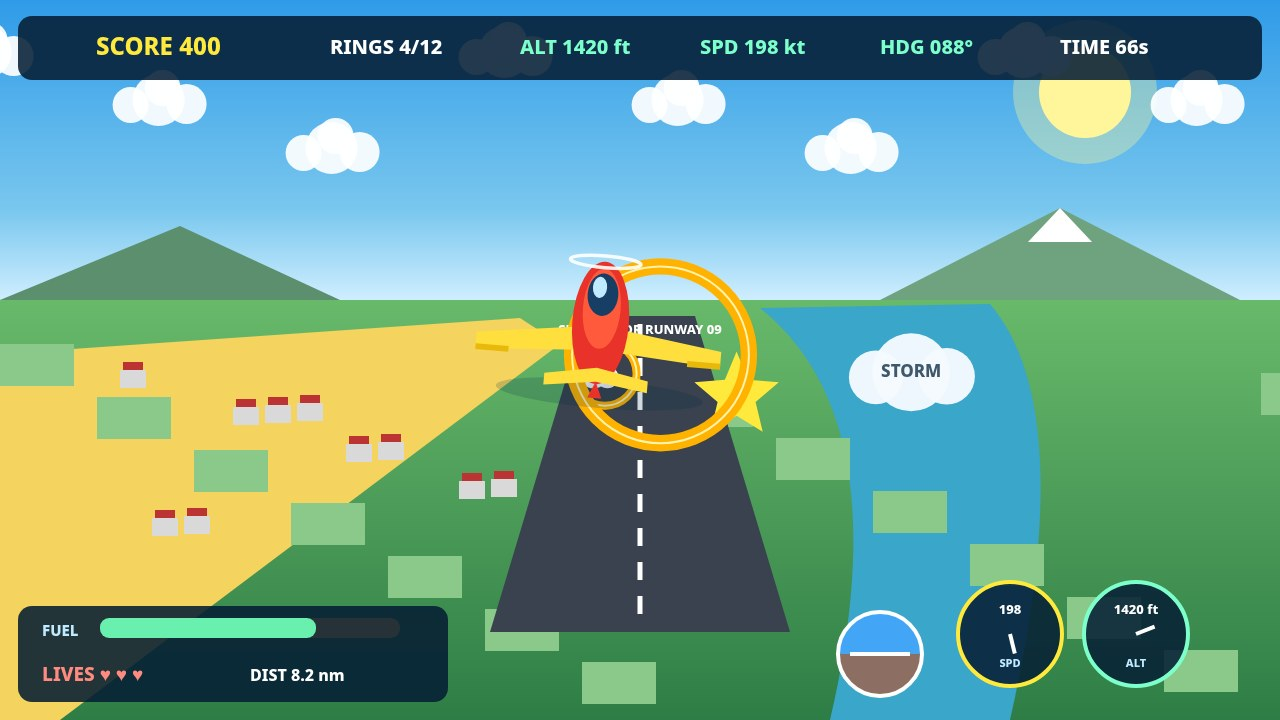
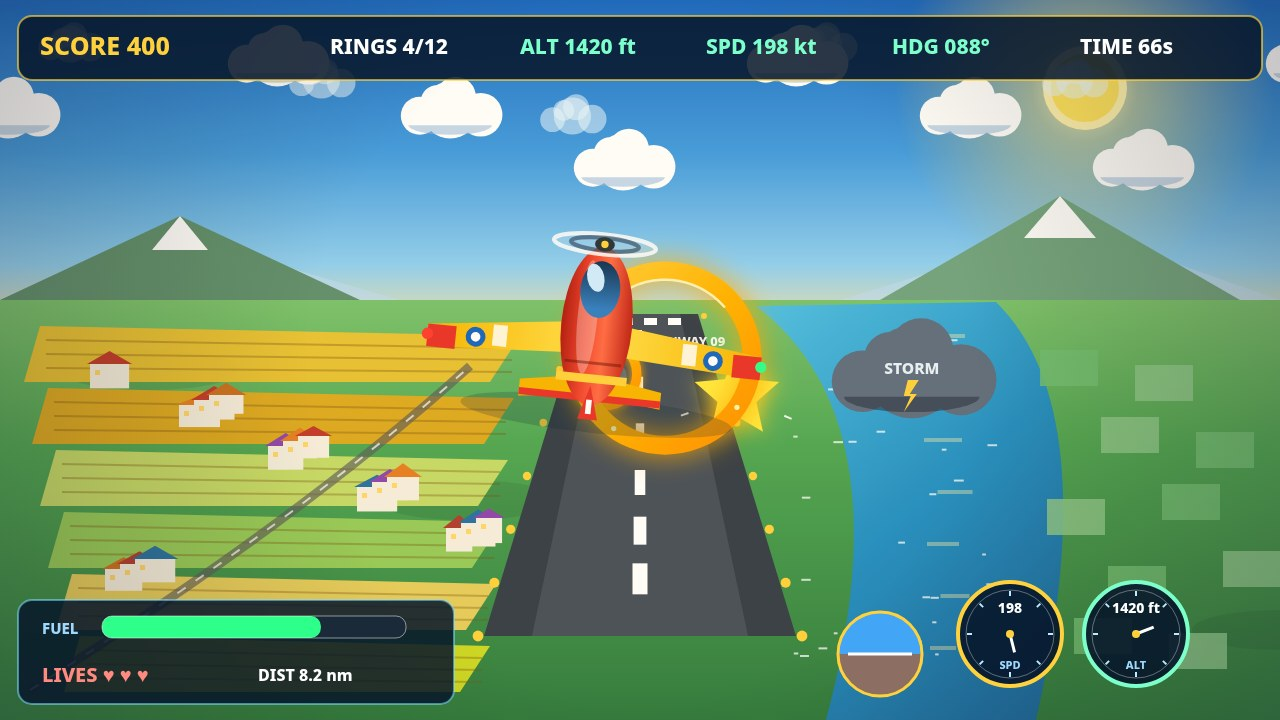
Visual overhaul: golden sky, detailed plane and terrain, polished HUD/title/end, restaged screenshots

diff --git a/game/src/render.js b/game/src/render.js
@@ -1,60 +1,119 @@
-
 import {FIELD,FONT} from './config.js';
 export const SCREEN_TITLE=0, SCREEN_PLAY=1, SCREEN_PAUSED=2, SCREEN_OVER=3;
+// Deterministic hash-noise so sparkles / rooftops / field tones are stable per frame.
+function hash(n){ const v=Math.sin(n*127.1+311.7)*43758.5453; return v-Math.floor(v); }
 export function createRenderer(canvas){
  const ctx=canvas.getContext('2d'); canvas.width=FIELD.width; canvas.height=FIELD.height;
  function rr(x,y,w,h,r){ ctx.beginPath(); ctx.roundRect(x,y,w,h,r); }
  function text(t,x,y,size,color,align='center',bold=800){ ctx.fillStyle=color; ctx.font=bold+' '+size+'px '+FONT; ctx.textAlign=align; ctx.textBaseline='middle'; ctx.fillText(t,x,y); }
- function plane(x,y,bank,scale=1){ ctx.save(); ctx.translate(x,y); ctx.rotate(bank*0.30); ctx.scale(scale,scale);
-   ctx.fillStyle='rgba(0,40,70,0.18)'; ctx.beginPath(); ctx.ellipse(4,54,88,12,0,0,7); ctx.fill();
-   // main wings (horizontal, chase view from behind)
-   ctx.fillStyle='#ffdf3d'; ctx.beginPath(); ctx.moveTo(-104,10); ctx.lineTo(-14,-2); ctx.lineTo(14,-2); ctx.lineTo(104,10); ctx.lineTo(104,24); ctx.lineTo(14,18); ctx.lineTo(-14,18); ctx.lineTo(-104,24); ctx.closePath(); ctx.fill();
-   ctx.fillStyle='#e8b90a'; ctx.fillRect(-104,20,28,5); ctx.fillRect(76,20,28,5);
-   // fuselage vertical
-   ctx.fillStyle='#e8322a'; ctx.beginPath(); ctx.ellipse(0,-6,24,52,0,0,7); ctx.fill();
-   ctx.fillStyle='#ff5a3c'; ctx.beginPath(); ctx.ellipse(0,-18,16,34,0,0,7); ctx.fill();
-   // cockpit canopy near nose (top)
-   ctx.fillStyle='#173f66'; ctx.beginPath(); ctx.ellipse(0,-30,13,18,0,0,7); ctx.fill(); ctx.fillStyle='#bfeaff'; ctx.beginPath(); ctx.ellipse(-3,-36,6,9,0,0,7); ctx.fill();
-   // tailplane at bottom
-   ctx.fillStyle='#ffdf3d'; ctx.beginPath(); ctx.moveTo(-44,40); ctx.lineTo(0,32); ctx.lineTo(44,40); ctx.lineTo(44,50); ctx.lineTo(0,44); ctx.lineTo(-44,50); ctx.closePath(); ctx.fill();
-   ctx.fillStyle='#e8322a'; ctx.beginPath(); ctx.moveTo(0,44); ctx.lineTo(-6,58); ctx.lineTo(6,58); ctx.closePath(); ctx.fill();
-   // propeller blur at nose
-   ctx.strokeStyle='rgba(255,255,255,0.9)'; ctx.lineWidth=3; ctx.beginPath(); ctx.ellipse(0,-58,30,5,0,0,7); ctx.stroke();
+ function panel(x,y,w,h,accent){ ctx.fillStyle='rgba(7,22,42,0.86)'; rr(x,y,w,h,14); ctx.fill(); ctx.strokeStyle=accent||'rgba(125,223,255,0.55)'; ctx.lineWidth=2; rr(x,y,w,h,14); ctx.stroke(); }
+ function plane(x,y,bank,scale=1){ ctx.save(); ctx.translate(x,y); ctx.rotate(bank*0.34); ctx.scale(scale,scale);
+   // ground shadow handled by caller scene; soft self shadow under wings
+   ctx.fillStyle='rgba(0,30,60,0.20)'; ctx.beginPath(); ctx.ellipse(6,58,96,13,0,0,7); ctx.fill();
+   // main wing: wide, slight dihedral shading, red tips, white stripes + roundels
+   const wg=ctx.createLinearGradient(-118,0,118,0); wg.addColorStop(0,'#f7b500'); wg.addColorStop(0.5,'#ffe14d'); wg.addColorStop(1,'#f7b500');
+   ctx.fillStyle=wg; ctx.beginPath(); ctx.moveTo(-118,6); ctx.lineTo(-16,-6); ctx.lineTo(16,-6); ctx.lineTo(118,6); ctx.lineTo(118,22); ctx.lineTo(16,16); ctx.lineTo(-16,16); ctx.lineTo(-118,22); ctx.closePath(); ctx.fill();
+   ctx.fillStyle='#e8322a'; ctx.fillRect(-118,6,20,16); ctx.fillRect(98,6,20,16);
+   ctx.fillStyle='rgba(255,255,255,0.85)'; ctx.fillRect(-72,2,10,15); ctx.fillRect(62,2,10,15);
+   for(const sx of [-1,1]){ ctx.fillStyle='#1565c0'; ctx.beginPath(); ctx.arc(sx*84,12,7,0,7); ctx.fill(); ctx.fillStyle='#fff'; ctx.beginPath(); ctx.arc(sx*84,12,3.4,0,7); ctx.fill(); }
+   // navigation lights
+   ctx.fillStyle='#ff3b30'; ctx.beginPath(); ctx.arc(-118,13,4,0,7); ctx.fill(); ctx.fillStyle='#2eff8a'; ctx.beginPath(); ctx.arc(118,13,4,0,7); ctx.fill();
+   // tailplane
+   ctx.fillStyle='#f7b500'; ctx.beginPath(); ctx.moveTo(-50,38); ctx.lineTo(0,30); ctx.lineTo(50,38); ctx.lineTo(50,50); ctx.lineTo(0,44); ctx.lineTo(-50,50); ctx.closePath(); ctx.fill();
+   ctx.fillStyle='#e8322a'; ctx.fillRect(-50,44,100,5);
+   // fuselage: rich red gradient, panel line, highlight spine
+   const fg=ctx.createLinearGradient(-24,0,24,0); fg.addColorStop(0,'#b31b12'); fg.addColorStop(0.35,'#f0442e'); fg.addColorStop(0.62,'#ff6a45'); fg.addColorStop(1,'#c22418');
+   ctx.fillStyle=fg; ctx.beginPath(); ctx.ellipse(0,-4,25,56,0,0,7); ctx.fill();
+   ctx.fillStyle='rgba(255,255,255,0.30)'; ctx.beginPath(); ctx.ellipse(-7,-10,7,40,0,0,7); ctx.fill();
+   ctx.strokeStyle='rgba(90,10,5,0.45)'; ctx.lineWidth=2; ctx.beginPath(); ctx.moveTo(-20,22); ctx.lineTo(20,22); ctx.stroke();
+   ctx.fillStyle='#ffd23d'; ctx.fillRect(-25,30,50,6);
+   // vertical fin at tail (bottom in chase view)
+   ctx.fillStyle='#e8322a'; ctx.beginPath(); ctx.moveTo(0,38); ctx.lineTo(-7,62); ctx.lineTo(7,62); ctx.closePath(); ctx.fill(); ctx.fillStyle='#fff'; ctx.fillRect(-2,48,4,10);
+   // cockpit canopy with glass highlight
+   const cg=ctx.createLinearGradient(0,-52,0,-16); cg.addColorStop(0,'#0d2c4d'); cg.addColorStop(1,'#2f7fc4');
+   ctx.fillStyle=cg; ctx.beginPath(); ctx.ellipse(0,-30,14,20,0,0,7); ctx.fill(); ctx.fillStyle='#cfeeff'; ctx.beginPath(); ctx.ellipse(-4,-38,6,10,-0.3,0,7); ctx.fill();
+   // propeller: blurred disc + arcs + spinner at nose (top)
+   ctx.fillStyle='rgba(230,245,255,0.20)'; ctx.beginPath(); ctx.ellipse(0,-62,36,7,0,0,7); ctx.fill();
+   ctx.strokeStyle='rgba(255,255,255,0.85)'; ctx.lineWidth=3; ctx.beginPath(); ctx.ellipse(0,-62,36,7,0,0,7); ctx.stroke();
+   ctx.strokeStyle='rgba(20,40,70,0.55)'; ctx.beginPath(); ctx.ellipse(0,-62,24,4.6,0,0,7); ctx.stroke();
+   ctx.fillStyle='#263238'; ctx.beginPath(); ctx.ellipse(0,-62,7,5,0,0,7); ctx.fill(); ctx.fillStyle='#ffd23d'; ctx.beginPath(); ctx.arc(0,-62,2.6,0,7); ctx.fill();
    ctx.restore(); }
- function dial(x,y,label,val,unit,color,display){ ctx.fillStyle='rgba(7,32,54,0.88)'; ctx.beginPath(); ctx.arc(x,y,52,0,7); ctx.fill(); ctx.strokeStyle=color; ctx.lineWidth=4; ctx.stroke(); ctx.strokeStyle='#fff'; ctx.beginPath(); ctx.moveTo(x,y); const a=-2.2+ (val%100)/100*3.6; ctx.lineTo(x+Math.cos(a)*20,y+Math.sin(a)*20); ctx.stroke(); text(label,x,y+30,11,'#bfeaff'); text(display??(Math.round(val)+unit),x,y-24,13,'#fff'); }
+ function dial(x,y,label,val,unit,color,display){ ctx.fillStyle='rgba(7,22,42,0.90)'; ctx.beginPath(); ctx.arc(x,y,52,0,7); ctx.fill(); ctx.strokeStyle=color; ctx.lineWidth=4; ctx.stroke(); ctx.strokeStyle='rgba(255,255,255,0.35)'; ctx.lineWidth=1; ctx.beginPath(); ctx.arc(x,y,44,0,7); ctx.stroke();
+   for(let k=0;k<8;k++){ const a=k/8*Math.PI*2; ctx.strokeStyle='#bfeaff'; ctx.lineWidth=2; ctx.beginPath(); ctx.moveTo(x+Math.cos(a)*38,y+Math.sin(a)*38); ctx.lineTo(x+Math.cos(a)*43,y+Math.sin(a)*43); ctx.stroke(); }
+   ctx.strokeStyle='#fff'; ctx.lineWidth=3; ctx.beginPath(); ctx.moveTo(x,y); const a=-2.2+ (val%100)/100*3.6; ctx.lineTo(x+Math.cos(a)*19,y+Math.sin(a)*19); ctx.stroke(); ctx.fillStyle='#ffd23d'; ctx.beginPath(); ctx.arc(x,y,4,0,7); ctx.fill();
+   text(label,x,y+32,11,'#9fd8ff'); text(display??(Math.round(val)+unit),x,y-25,14,'#fff'); }
+ function cloudShape(cx,cy,s,fill,shadow){ ctx.fillStyle=fill; for(const [dx,dy,r] of [[0,0,30],[32,5,23],[-32,6,20],[6,-14,21],[-14,-9,17]]) { ctx.beginPath(); ctx.arc(cx+dx*s,cy+dy*s,r*s,0,7); ctx.fill(); } if(shadow){ ctx.fillStyle=shadow; ctx.beginPath(); ctx.ellipse(cx,cy+16*s,44*s,10*s,0,0,Math.PI); ctx.fill(); } }
  function draw(s,screen,best){
   const W=1280,H=720,hor=300+s.pitch*22;
-  let g=ctx.createLinearGradient(0,0,0,hor); g.addColorStop(0,'#2f9be8'); g.addColorStop(0.7,'#79c7ee'); g.addColorStop(1,'#cfeeff'); ctx.fillStyle=g; ctx.fillRect(0,0,W,hor+2);
-  ctx.fillStyle='#fff59b'; ctx.beginPath(); ctx.arc(1085,92,46,0,7); ctx.fill(); ctx.fillStyle='rgba(255,245,155,0.35)'; ctx.beginPath(); ctx.arc(1085,92,72,0,7); ctx.fill();
-  for(let i=0;i<9;i++){ const cx=((i*173 + s.dist*8)%1450)-80, cy=52+(i%3)*48; ctx.fillStyle='rgba(255,255,255,0.92)'; for(const [dx,dy,r] of [[0,0,26],[28,4,20],[-28,5,18],[4,-12,18]]) { ctx.beginPath(); ctx.arc(cx+dx,cy+dy,r,0,7); ctx.fill(); } }
-  ctx.fillStyle='#5b8f6e'; ctx.beginPath(); ctx.moveTo(0,hor); ctx.lineTo(180,hor-74); ctx.lineTo(340,hor); ctx.closePath(); ctx.fill(); ctx.fillStyle='#6fa37f'; ctx.beginPath(); ctx.moveTo(880,hor); ctx.lineTo(1060,hor-92); ctx.lineTo(1240,hor); ctx.closePath(); ctx.fill(); ctx.fillStyle='#fff'; ctx.beginPath(); ctx.moveTo(1060,hor-92); ctx.lineTo(1028,hor-58); ctx.lineTo(1092,hor-58); ctx.closePath(); ctx.fill();
-  g=ctx.createLinearGradient(0,hor,0,H); g.addColorStop(0,'#69b96b'); g.addColorStop(1,'#2e7d46'); ctx.fillStyle=g; ctx.fillRect(0,hor,W,H-hor);
-  ctx.fillStyle='#f4d35e'; ctx.beginPath(); ctx.moveTo(0,hor+54); ctx.lineTo(520,hor+18); ctx.lineTo(560,hor+44); ctx.lineTo(60,H); ctx.lineTo(0,H); ctx.closePath(); ctx.fill();
-  ctx.fillStyle='#3aa6c9'; ctx.beginPath(); ctx.moveTo(760,hor+8); ctx.quadraticCurveTo(900,hor+120,830,H); ctx.lineTo(1010,H); ctx.quadraticCurveTo(1080,hor+110,990,hor+4); ctx.closePath(); ctx.fill();
-  ctx.fillStyle='#8bc98b'; for(let i=0;i<14;i++){ const x=(i*97)%1280, y=hor+44+(i*53)%330; ctx.fillRect(x,y,74,42); }
-  ctx.fillStyle='#d9d9d9'; for(let i=0;i<10;i++){ const x=120+(i*113)%420, y=hor+70+(i*37)%150; ctx.fillRect(x,y,26,18); ctx.fillStyle='#b33'; ctx.fillRect(x+3,y-8,20,8); ctx.fillStyle='#d9d9d9'; }
-  // runway ahead centre
-  ctx.fillStyle='#39424e'; ctx.beginPath(); ctx.moveTo(585,hor+16); ctx.lineTo(695,hor+16); ctx.lineTo(790,H-88); ctx.lineTo(490,H-88); ctx.closePath(); ctx.fill(); ctx.strokeStyle='#fff'; ctx.setLineDash([18,16]); ctx.lineWidth=5; ctx.beginPath(); ctx.moveTo(640,hor+24); ctx.lineTo(640,H-104); ctx.stroke(); ctx.setLineDash([]);
-  text('SKY HARBOR RUNWAY 09',640,hor+30,13,'#ffffff');
-  // items sorted far to near
+  // --- SKY: vivid midday melting into golden horizon, sun glow top-right ---
+  let g=ctx.createLinearGradient(0,0,0,hor+40); g.addColorStop(0,'#1668c4'); g.addColorStop(0.45,'#3f9be0'); g.addColorStop(0.78,'#8fd0f2'); g.addColorStop(1,'#ffe3a1'); ctx.fillStyle=g; ctx.fillRect(0,0,W,hor+42);
+  const sun=ctx.createRadialGradient(1085,88,8,1085,88,190); sun.addColorStop(0,'rgba(255,246,190,0.95)'); sun.addColorStop(0.25,'rgba(255,224,120,0.55)'); sun.addColorStop(1,'rgba(255,214,110,0)'); ctx.fillStyle=sun; ctx.fillRect(860,0,420,300);
+  ctx.fillStyle='#fff3b0'; ctx.beginPath(); ctx.arc(1085,88,42,0,7); ctx.fill(); ctx.fillStyle='#ffe45e'; ctx.beginPath(); ctx.arc(1085,88,34,0,7); ctx.fill();
+  // far clouds (hazy, slow) + near clouds with shaded bellies and ground shadows
+  for(let i=0;i<6;i++){ const cx=((i*251 + s.dist*22)%1500)-110, cy=44+(i%3)*36; ctx.globalAlpha=0.55; cloudShape(cx,cy,0.62,'#eaf7ff'); ctx.globalAlpha=1; }
+  for(let i=0;i<8;i++){ const cx=((i*173 + s.dist*46)%1480)-100, cy=58+(i%3)*52; cloudShape(cx,cy,0.95,'#ffffff','rgba(140,180,215,0.5)'); }
+  // --- MOUNTAINS: three hazed layers ---
+  const layers=[['#7fa8c9',64,180,340],['#5d8f6e',92,1060,1240],['#4a7d5c',120,180,340]];
+  ctx.fillStyle='rgba(190,220,245,0.55)'; ctx.beginPath(); ctx.moveTo(0,hor); ctx.lineTo(200,hor-58); ctx.lineTo(400,hor); ctx.closePath(); ctx.fill();
+  ctx.beginPath(); ctx.moveTo(840,hor); ctx.lineTo(1075,hor-72); ctx.lineTo(1280,hor); ctx.closePath(); ctx.fill();
+  ctx.fillStyle='#5d8f6e'; ctx.beginPath(); ctx.moveTo(0,hor); ctx.lineTo(180,hor-84); ctx.lineTo(360,hor); ctx.closePath(); ctx.fill();
+  ctx.fillStyle='#6fa37f'; ctx.beginPath(); ctx.moveTo(880,hor); ctx.lineTo(1060,hor-104); ctx.lineTo(1240,hor); ctx.closePath(); ctx.fill();
+  ctx.fillStyle='#ffffff'; ctx.beginPath(); ctx.moveTo(1060,hor-104); ctx.lineTo(1024,hor-62); ctx.lineTo(1096,hor-62); ctx.closePath(); ctx.fill(); ctx.beginPath(); ctx.moveTo(180,hor-84); ctx.lineTo(152,hor-50); ctx.lineTo(208,hor-50); ctx.closePath(); ctx.fill();
+  // --- GROUND ---
+  g=ctx.createLinearGradient(0,hor,0,H); g.addColorStop(0,'#79c26d'); g.addColorStop(0.35,'#4da653'); g.addColorStop(1,'#2c7a3e'); ctx.fillStyle=g; ctx.fillRect(0,hor,W,H-hor);
+  // cloud shadows drifting on the ground
+  ctx.fillStyle='rgba(20,60,40,0.13)'; for(let i=0;i<5;i++){ const cx=((i*317 + s.dist*90)%1450)-90, cy=hor+70+(i%3)*130; ctx.beginPath(); ctx.ellipse(cx,cy,90,20,0,0,7); ctx.fill(); }
+  // patchwork fields left (perspective quads, varied crops)
+  const fieldCols=['#f2c230','#e8a91c','#cfe06a','#9ccf5a','#f4d35e','#d9e021'];
+  for(let i=0;i<6;i++){ const y0=hor+26+i*62, y1=y0+56, x0=40+i*8, x1=520-i*6; ctx.fillStyle=fieldCols[i%fieldCols.length]; ctx.globalAlpha=0.92; ctx.beginPath(); ctx.moveTo(x0,y0); ctx.lineTo(x1,y0+10); ctx.lineTo(x1-30,y1); ctx.lineTo(x0-16,y1); ctx.closePath(); ctx.fill(); ctx.globalAlpha=1;
+    ctx.strokeStyle='rgba(120,84,20,0.35)'; ctx.lineWidth=2; for(let rI=1;rI<4;rI++){ ctx.beginPath(); ctx.moveTo(x0+6,y0+rI*14); ctx.lineTo(x1-8,y0+10+rI*12); ctx.stroke(); } }
+  // harbor water right: deep gradient, sparkle, far shore
+  const wg2=ctx.createLinearGradient(740,hor,1080,H); wg2.addColorStop(0,'#4fc3e8'); wg2.addColorStop(0.5,'#1f8fc4'); wg2.addColorStop(1,'#14639c'); ctx.fillStyle=wg2; ctx.beginPath(); ctx.moveTo(756,hor+6); ctx.quadraticCurveTo(906,hor+120,826,H); ctx.lineTo(1036,H); ctx.quadraticCurveTo(1106,hor+110,996,hor+2); ctx.closePath(); ctx.fill();
+  ctx.fillStyle='rgba(255,255,255,0.75)'; for(let i=0;i<26;i++){ const sx=790+hash(i*3+Math.floor(s.dist*2))*220, sy=hor+26+hash(i*7+Math.floor(s.dist*2))*360; ctx.fillRect(sx,sy,3+hash(i)*7,2); }
+  ctx.fillStyle='rgba(255,240,170,0.4)'; for(let i=0;i<7;i++){ const ry=hor+34+i*52, rw=44-i*3; ctx.fillRect(948-rw/2+((i%2)?7:-5),ry,rw,4); }
+  // meadow blocks centre-right of runway
+  for(let i=0;i<10;i++){ const x=1040+(i*61)%210, y=hor+50+(i*67)%320; ctx.fillStyle=i%2?'#8bc98b':'#6fbf73'; ctx.globalAlpha=0.85; ctx.fillRect(x,y,58,36); ctx.globalAlpha=1; }
+  // town: varied houses with coloured rooftops, lower-left of runway
+  const roofs=['#c0392b','#e67e22','#8e44ad','#2471a3','#b03a2e','#ca6f1e'];
+  for(let i=0;i<16;i++){ const x=90+(i*89)%430, y=hor+64+(i*41)%210, w=26+hash(i*13)*16, h=17+hash(i*5)*9; ctx.fillStyle='#f5efe0'; ctx.fillRect(x,y,w,h); ctx.fillStyle=roofs[i%roofs.length]; ctx.beginPath(); ctx.moveTo(x-3,y); ctx.lineTo(x+w/2,y-9-hash(i)*5); ctx.lineTo(x+w+3,y); ctx.closePath(); ctx.fill(); ctx.fillStyle='#ffd76a'; ctx.fillRect(x+5,y+6,5,5); }
+  // road curving through town
+  ctx.strokeStyle='rgba(90,90,90,0.65)'; ctx.lineWidth=9; ctx.beginPath(); ctx.moveTo(30,H-30); ctx.quadraticCurveTo(300,hor+220,470,hor+66); ctx.stroke(); ctx.strokeStyle='rgba(255,255,255,0.7)'; ctx.lineWidth=2; ctx.setLineDash([10,12]); ctx.beginPath(); ctx.moveTo(30,H-30); ctx.quadraticCurveTo(300,hor+220,470,hor+66); ctx.stroke(); ctx.setLineDash([]);
+  // --- RUNWAY ahead centre: markings, threshold, edge lights ---
+  ctx.fillStyle='#333d47'; ctx.beginPath(); ctx.moveTo(582,hor+14); ctx.lineTo(698,hor+14); ctx.lineTo(796,H-84); ctx.lineTo(484,H-84); ctx.closePath(); ctx.fill();
+  ctx.fillStyle='#454f59'; ctx.beginPath(); ctx.moveTo(600,hor+14); ctx.lineTo(680,hor+14); ctx.lineTo(748,H-84); ctx.lineTo(532,H-84); ctx.closePath(); ctx.fill();
+  ctx.fillStyle='#ffffff'; for(let i=0;i<6;i++){ const y=hor+30+i*((H-140-hor)/6), wdt=4+i*2.2; ctx.fillRect(640-wdt/2,y,wdt,16+i*3); }
+  for(let i=0;i<4;i++){ ctx.fillRect(596+i*24,hor+18,13,7); }
+  for(let i=0;i<7;i++){ const t=i/6, lx=582+(484-582)*t - 6, rx=698+(796-698)*t + 6, ly=hor+16+(H-100-hor)*t; ctx.fillStyle='#ffd23d'; ctx.beginPath(); ctx.arc(lx,ly,3+t*2.4,0,7); ctx.fill(); ctx.beginPath(); ctx.arc(rx,ly,3+t*2.4,0,7); ctx.fill(); }
+  text('SKY HARBOR · RUNWAY 09',640,hor+42,13,'rgba(255,255,255,0.92)');
+  // --- ITEMS far to near ---
   const items=[...s.items].sort((a,b)=>b.z-a.z);
   for(const it of items){ const t=Math.max(0.08,1-it.z/1400); const x=640+it.lane*520*t + (640-s.x)*(t*0.25); const y=(hor+60)+ (it.h*90+70)*t + (330-s.y)*t*0.2; const r=18+t*88;
-    if(it.kind==='ring'){ ctx.strokeStyle='#ffb300'; ctx.lineWidth=6+t*13; ctx.beginPath(); ctx.arc(x,y,r,0,7); ctx.stroke(); ctx.strokeStyle='#fff3b0'; ctx.lineWidth=2; ctx.beginPath(); ctx.arc(x,y,r,0,7); ctx.stroke(); }
-    else if(it.kind==='star'){ ctx.fillStyle='#ffe93d'; ctx.beginPath(); for(let k=0;k<10;k++){ const a=-Math.PI/2+k*Math.PI/5, rad=k%2?r*0.45:r; ctx.lineTo(x+Math.cos(a)*rad,y+Math.sin(a)*rad);} ctx.fill(); }
-    else { ctx.fillStyle='rgba(245,250,255,0.96)'; for(const [dx,dy,rad] of [[0,0,r*0.55],[r*0.5,4,r*0.4],[-r*0.5,5,r*0.38]]) { ctx.beginPath(); ctx.arc(x+dx,y+dy,rad,0,7); ctx.fill(); } ctx.fillStyle='#607d8b'; text('STORM',x,y,Math.max(9,r*0.24),'#40586b'); } }
-  plane(s.x,s.y,s.bank,1.18);
+    if(it.kind==='ring'){ ctx.save(); ctx.shadowColor='rgba(255,170,0,0.95)'; ctx.shadowBlur=26*t+6; const rg=ctx.createLinearGradient(x-r,y-r,x+r,y+r); rg.addColorStop(0,'#ffcf3d'); rg.addColorStop(0.5,'#ffb300'); rg.addColorStop(1,'#ff8f00'); ctx.strokeStyle=rg; ctx.lineWidth=7+t*15; ctx.beginPath(); ctx.arc(x,y,r,0,7); ctx.stroke(); ctx.shadowBlur=0; ctx.strokeStyle='rgba(255,246,190,0.95)'; ctx.lineWidth=2.4; ctx.beginPath(); ctx.arc(x,y,r-(4+t*6),-2.4,-0.7); ctx.stroke(); ctx.fillStyle='#fff7ae'; for(const a of [0.6,2.2,4.2]){ ctx.beginPath(); ctx.arc(x+Math.cos(a)*r,y+Math.sin(a)*r,2.6,0,7); ctx.fill(); } ctx.restore(); }
+    else if(it.kind==='star'){ ctx.save(); ctx.shadowColor='rgba(255,220,40,0.95)'; ctx.shadowBlur=22; ctx.fillStyle='#ffe93d'; ctx.beginPath(); for(let k=0;k<10;k++){ const a=-Math.PI/2+k*Math.PI/5, rad=k%2?r*0.46:r; ctx.lineTo(x+Math.cos(a)*rad,y+Math.sin(a)*rad);} ctx.closePath(); ctx.fill(); ctx.shadowBlur=0; ctx.strokeStyle='rgba(255,255,255,0.9)'; ctx.lineWidth=2; for(const a of [0.4,2.8]){ ctx.beginPath(); ctx.moveTo(x+Math.cos(a)*(r+7),y+Math.sin(a)*(r+7)); ctx.lineTo(x+Math.cos(a)*(r+15),y+Math.sin(a)*(r+15)); ctx.stroke(); } ctx.restore(); }
+    else { cloudShape(x,y,r/46,'#5d6d7e','rgba(30,40,55,0.5)'); ctx.fillStyle='#ffd23d'; ctx.beginPath(); ctx.moveTo(x-4,y+8); ctx.lineTo(x+7,y+8); ctx.lineTo(x-2,y+22); ctx.lineTo(x+5,y+22); ctx.lineTo(x-8,y+40); ctx.lineTo(x-1,y+24); ctx.lineTo(x-8,y+24); ctx.closePath(); ctx.fill(); text('STORM',x,y-2,Math.max(10,r*0.22),'#e8f2fa'); } }
+  plane(s.x,s.y,s.bank,1.42);
   if(s.flash>0){ ctx.fillStyle='rgba(255,220,60,'+(s.flash*0.35)+')'; ctx.fillRect(0,0,W,H); }
-  // HUD top
-  ctx.fillStyle='rgba(6,30,52,0.88)'; rr(18,16,1244,64,14); ctx.fill();
-  text('SCORE '+s.score,96,48,24,'#ffe93d','left'); text('RINGS '+s.rings+'/12',330,48,20,'#fff','left'); text('ALT '+Math.round(s.alt)+' ft',520,48,20,'#7dffcb','left'); text('SPD '+Math.round(s.speed)+' kt',700,48,20,'#7dffcb','left'); text('HDG '+String(Math.round(s.heading)).padStart(3,'0')+'°',880,48,20,'#7dffcb','left'); text('TIME '+Math.ceil(s.left)+'s',1060,48,20, s.left<15?'#ff8a80':'#fff','left');
-  // fuel + lives bottom instruments
-  ctx.fillStyle='rgba(6,30,52,0.88)'; rr(18,606,430,96,14); ctx.fill(); text('FUEL',42,632,15,'#bfeaff','left'); ctx.fillStyle='#263238'; rr(100,618,300,20,9); ctx.fill(); ctx.fillStyle=s.fuel<25?'#ff5252':'#69f0ae'; rr(100,618,300*Math.max(0,s.fuel)/100,20,9); ctx.fill(); text('LIVES '+'♥ '.repeat(Math.max(0,s.lives)),42,676,19,'#ff8a80','left'); text('DIST '+s.dist.toFixed(1)+' nm',250,676,16,'#fff','left');
-  dial(1136,634,'ALT',s.alt/28,'','#7dffcb',Math.round(s.alt)+' ft'); dial(1010,634,'SPD',s.speed,'','#ffe93d');
-  // artificial horizon mini
-  ctx.save(); ctx.beginPath(); ctx.arc(880,654,42,0,7); ctx.clip(); ctx.fillStyle='#42a5f5'; ctx.fillRect(838,612,84,42+s.pitch*18); ctx.fillStyle='#8d6e63'; ctx.fillRect(838,654+s.pitch*18,84,50); ctx.strokeStyle='#fff'; ctx.beginPath(); ctx.moveTo(850,654); ctx.lineTo(910,654); ctx.stroke(); ctx.restore(); ctx.strokeStyle='#fff'; ctx.beginPath(); ctx.arc(880,654,42,0,7); ctx.stroke();
-  if(screen===0){ ctx.fillStyle='rgba(4,42,74,0.72)'; rr(290,118,700,330,24); ctx.fill(); text('SKY HARBOR',640,188,64,'#ffe93d'); text('R I N G S',640,248,38,'#fff'); text('Fly through 12 golden rings over the harbor!',640,304,22,'#d8f4ff'); text('Runway ahead · River · Town · Golden fields',640,340,18,'#bfeaff'); ctx.fillStyle='#e8322a'; rr(490,366,300,56,14); ctx.fill(); text('CLICK OR PRESS SPACE TO FLY',640,394,19,'#fff'); text('Arrows / WASD steer · Shift faster · Avoid storm clouds',640,432,16,'#eaf7ff'); }
+  // cinematic vignette + warm grade for depth
+  const vg=ctx.createRadialGradient(640,360,330,640,360,760); vg.addColorStop(0,'rgba(0,0,0,0)'); vg.addColorStop(1,'rgba(10,20,50,0.26)'); ctx.fillStyle=vg; ctx.fillRect(0,0,W,H);
+  ctx.fillStyle='rgba(255,170,60,0.05)'; ctx.fillRect(0,0,W,H);
+  // --- HUD ---
+  panel(18,16,1244,64,'rgba(255,210,61,0.65)');
+  text('SCORE '+s.score,40,48,25,'#ffd23d','left'); text('RINGS '+s.rings+'/12',330,48,21,'#ffffff','left'); text('ALT '+Math.round(s.alt)+' ft',520,48,21,'#7dffcb','left'); text('SPD '+Math.round(s.speed)+' kt',706,48,21,'#7dffcb','left'); text('HDG '+String(Math.round(s.heading)).padStart(3,'0')+'°',892,48,21,'#7dffcb','left'); text('TIME '+Math.ceil(s.left)+'s',1080,48,21, s.left<15?'#ff8a80':'#ffffff','left');
+  panel(18,600,436,104);
+  text('FUEL',42,630,15,'#9fd8ff','left'); ctx.fillStyle='#1b2a38'; rr(102,616,304,22,10); ctx.fill(); ctx.fillStyle=s.fuel<25?'#ff5252':'#2eff8a'; rr(102,616,304*Math.max(0,s.fuel)/100,22,10); ctx.fill(); ctx.strokeStyle='rgba(255,255,255,0.5)'; ctx.lineWidth=1; rr(102,616,304,22,10); ctx.stroke();
+  text('LIVES '+'♥ '.repeat(Math.max(0,s.lives)),42,676,20,'#ff8a80','left'); text('DIST '+s.dist.toFixed(1)+' nm',258,676,16,'#ffffff','left');
+  dial(1136,634,'ALT',s.alt/28,'','#7dffcb',Math.round(s.alt)+' ft'); dial(1010,634,'SPD',s.speed,'','#ffd23d');
+  ctx.save(); ctx.beginPath(); ctx.arc(880,654,42,0,7); ctx.clip(); ctx.fillStyle='#42a5f5'; ctx.fillRect(838,612,84,42+s.pitch*18); ctx.fillStyle='#8d6e63'; ctx.fillRect(838,654+s.pitch*18,84,50); ctx.strokeStyle='#fff'; ctx.lineWidth=3; ctx.beginPath(); ctx.moveTo(848,654); ctx.lineTo(912,654); ctx.stroke(); ctx.restore(); ctx.strokeStyle='#ffd23d'; ctx.lineWidth=3; ctx.beginPath(); ctx.arc(880,654,42,0,7); ctx.stroke();
+  if(screen===0){ // title: compact top banner so the hero plane, ring and runway stay fully visible below
+    const tg=ctx.createLinearGradient(0,86,0,252); tg.addColorStop(0,'rgba(5,28,56,0.92)'); tg.addColorStop(1,'rgba(5,28,56,0.78)'); ctx.fillStyle=tg; rr(250,86,780,178,26); ctx.fill(); ctx.strokeStyle='#ffd23d'; ctx.lineWidth=3; rr(250,86,780,178,26); ctx.stroke();
+    ctx.save(); ctx.shadowColor='rgba(0,0,0,0.55)'; ctx.shadowBlur=0; ctx.shadowOffsetY=5; text('SKY HARBOR',640,142,66,'#ffd23d'); ctx.restore();
+    text('★ R I N G S ★',640,196,34,'#ffffff'); text('Fly through 12 golden rings over the harbor!',640,232,21,'#d8f4ff');
+    ctx.fillStyle='#e8322a'; rr(470,282,340,54,14); ctx.fill(); ctx.strokeStyle='#ffb3ab'; ctx.lineWidth=2; rr(470,282,340,54,14); ctx.stroke();
+    text('PRESS SPACE TO FLY',640,309,21,'#ffffff'); ctx.fillStyle='rgba(5,28,56,0.72)'; rr(352,338,576,30,15); ctx.fill(); text('Arrows / WASD steer · Shift faster · Avoid storm clouds',640,353,16,'#eaf7ff'); }
   if(screen===2){ ctx.fillStyle='rgba(0,0,0,0.45)'; ctx.fillRect(0,0,W,H); text('PAUSED',640,340,52,'#fff'); }
-  if(screen===3){ ctx.fillStyle='rgba(4,42,74,0.78)'; rr(300,130,680,360,24); ctx.fill(); text('FLIGHT COMPLETE!',640,200,46,'#ffe93d'); text('Score  '+s.score,640,272,36,'#fff'); text('Rings '+s.rings+'   Stars '+s.stars+'   Best '+Math.max(best,s.score),640,326,22,'#d8f4ff'); text(s.rings>=8?'Harbor Master — superb flying!':s.rings>=4?'Great flight, pilot!':'Keep practicing, pilot!',640,378,22,'#7dffcb'); ctx.fillStyle='#e8322a'; rr(490,404,300,52,14); ctx.fill(); text('FLY AGAIN — SPACE',640,430,18,'#fff'); }
+  if(screen===3){ const eg=ctx.createLinearGradient(0,96,0,300); eg.addColorStop(0,'rgba(5,28,56,0.93)'); eg.addColorStop(1,'rgba(5,28,56,0.80)'); ctx.fillStyle=eg; rr(310,96,660,214,26); ctx.fill(); ctx.strokeStyle='#ffd23d'; ctx.lineWidth=3; rr(310,96,660,214,26); ctx.stroke();
+    text('✈ FLIGHT COMPLETE!',640,140,44,'#ffd23d'); text('SCORE  '+s.score,640,196,38,'#ffffff'); text('Rings '+s.rings+'/12   ★ Stars '+s.stars+'   Best '+Math.max(best,s.score),640,240,22,'#d8f4ff'); text(s.rings>=8?'★ Harbor Master — superb flying! ★':s.rings>=4?'Great flight, pilot!':'Keep practicing, pilot!',640,276,22,'#7dffcb');
+    ctx.fillStyle='#e8322a'; rr(490,326,300,52,14); ctx.fill(); text('FLY AGAIN — SPACE',640,352,18,'#fff'); }
  }
  return {draw};
 }

diff --git a/game/src/shots.js b/game/src/shots.js
@@ -1,12 +1,13 @@
-
 import {SCREEN_TITLE,SCREEN_PLAY,SCREEN_OVER} from './render.js';
 export function stageShot(name,world){
  world.reset(); const s=world.state;
- if(name==='play'||name==='rush'){ s.time=name==='rush'?52:24; s.left=90-s.time; s.score=name==='rush'?750:400; s.rings=name==='rush'?7:4; s.stars=3; s.alt=name==='rush'?1680:1420; s.speed=name==='rush'?224:198; s.heading=88; s.fuel=name==='rush'?48:72; s.dist=name==='rush'?18.4:8.2; s.x=name==='rush'?706:600; s.y=name==='rush'?302:330; s.bank=name==='rush'?-0.3:0.28;
-   s.items=[{kind:'ring',z:280,lane:0.03,h:-0.85,done:false},{kind:'ring',z:1180,lane:-0.45,h:0.2,done:false},{kind:'cloud',z:560,lane:0.85,h:-0.55,done:false},{kind:'star',z:980,lane:0.6,h:0.55,done:false},{kind:'cloud',z:1250,lane:-0.85,h:0.6,done:false}];
+ if(name==='play'||name==='rush'){ s.time=name==='rush'?52:24; s.left=90-s.time; s.score=name==='rush'?750:400; s.rings=name==='rush'?7:4; s.stars=3; s.alt=name==='rush'?1680:1420; s.speed=name==='rush'?224:198; s.heading=88; s.fuel=name==='rush'?48:72; s.dist=name==='rush'?18.4:8.2; s.x=name==='rush'?724:596; s.y=name==='rush'?288:332; s.bank=name==='rush'?-1.05:0.30;
+   s.items=name==='rush'
+     ? [{kind:'ring',z:170,lane:0.10,h:-0.95,done:false},{kind:'ring',z:1120,lane:-0.5,h:0.15,done:false},{kind:'star',z:520,lane:-0.72,h:-0.35,done:false},{kind:'cloud',z:900,lane:0.9,h:0.5,done:false},{kind:'cloud',z:1300,lane:-0.9,h:0.6,done:false}]
+     : [{kind:'ring',z:300,lane:0.04,h:-0.8,done:false},{kind:'ring',z:1180,lane:-0.45,h:0.2,done:false},{kind:'cloud',z:560,lane:0.85,h:-0.55,done:false},{kind:'star',z:980,lane:0.6,h:0.55,done:false},{kind:'cloud',z:1250,lane:-0.85,h:0.6,done:false}];
    return {screen:SCREEN_PLAY,best:900}; }
- if(name==='end'){ s.time=90; s.left=0; s.score=1150; s.rings=10; s.stars=5; s.alt=1520; s.speed=205; s.fuel=22; s.dist=31.6; s.x=640; s.y=512;
-   s.items=[{kind:'ring',z:420,lane:0.1,h:0,done:false}]; return {screen:SCREEN_OVER,best:1150}; }
- s.time=2; s.x=640; s.y=478; s.items=[{kind:'ring',z:360,lane:0,h:0,done:false},{kind:'ring',z:900,lane:-0.4,h:0.2,done:false}];
+ if(name==='end'){ s.time=90; s.left=0; s.score=1150; s.rings=10; s.stars=5; s.alt=1520; s.speed=205; s.fuel=22; s.dist=31.6; s.x=640; s.y=508; s.bank=0.18;
+   s.items=[{kind:'ring',z:430,lane:0.12,h:-0.1,done:false},{kind:'star',z:760,lane:-0.55,h:0.4,done:false}]; return {screen:SCREEN_OVER,best:1150}; }
+ s.time=2; s.x=622; s.y=494; s.bank=0.12; s.items=[{kind:'ring',z:300,lane:0.02,h:-0.15,done:false},{kind:'ring',z:920,lane:-0.42,h:0.2,done:false},{kind:'star',z:640,lane:0.78,h:0.35,done:false}];
  return {screen:SCREEN_TITLE,best:900};
 }
